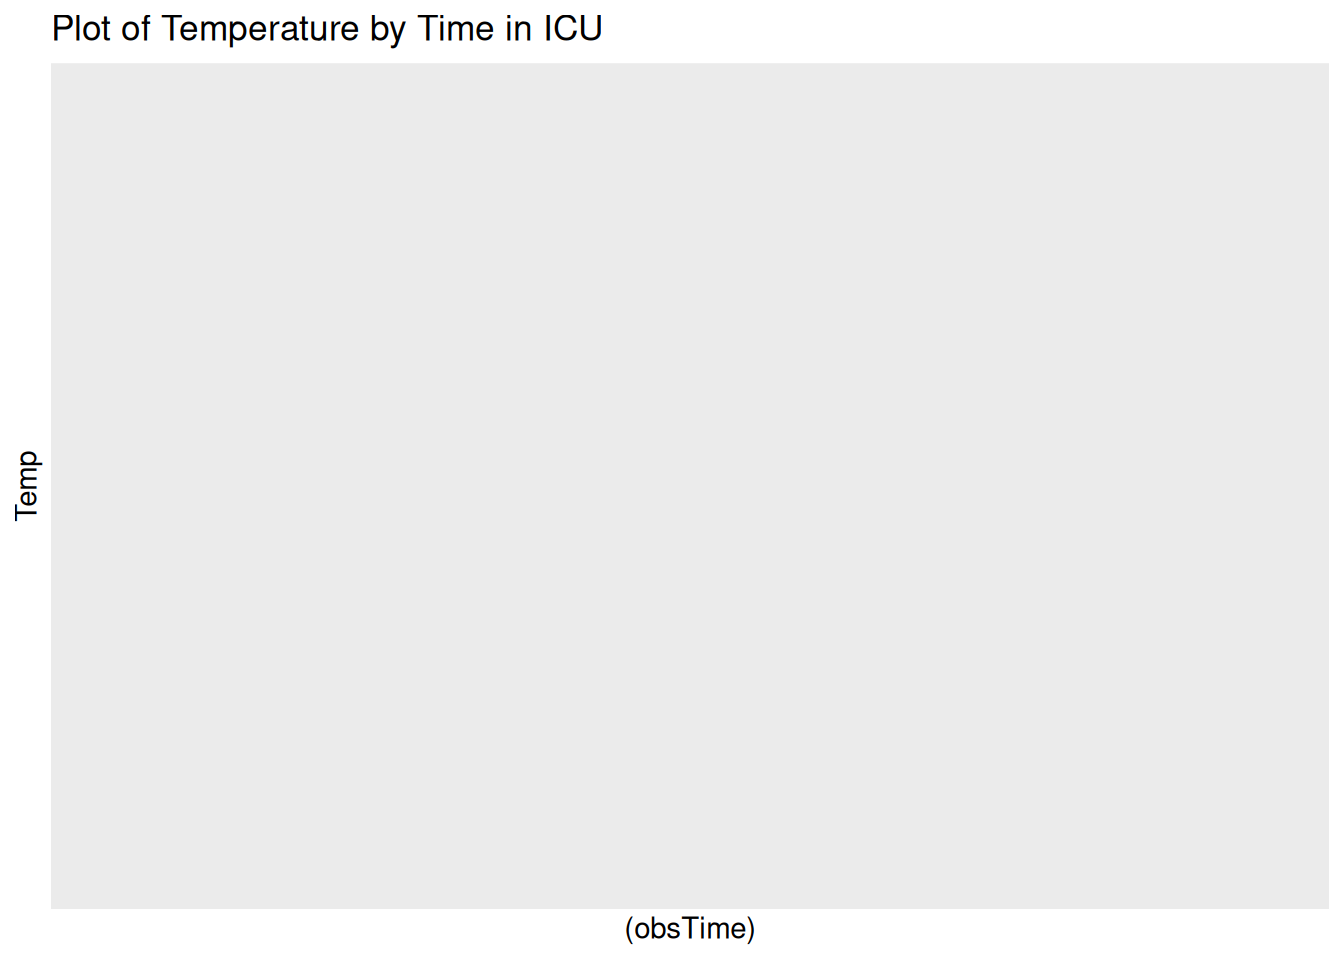
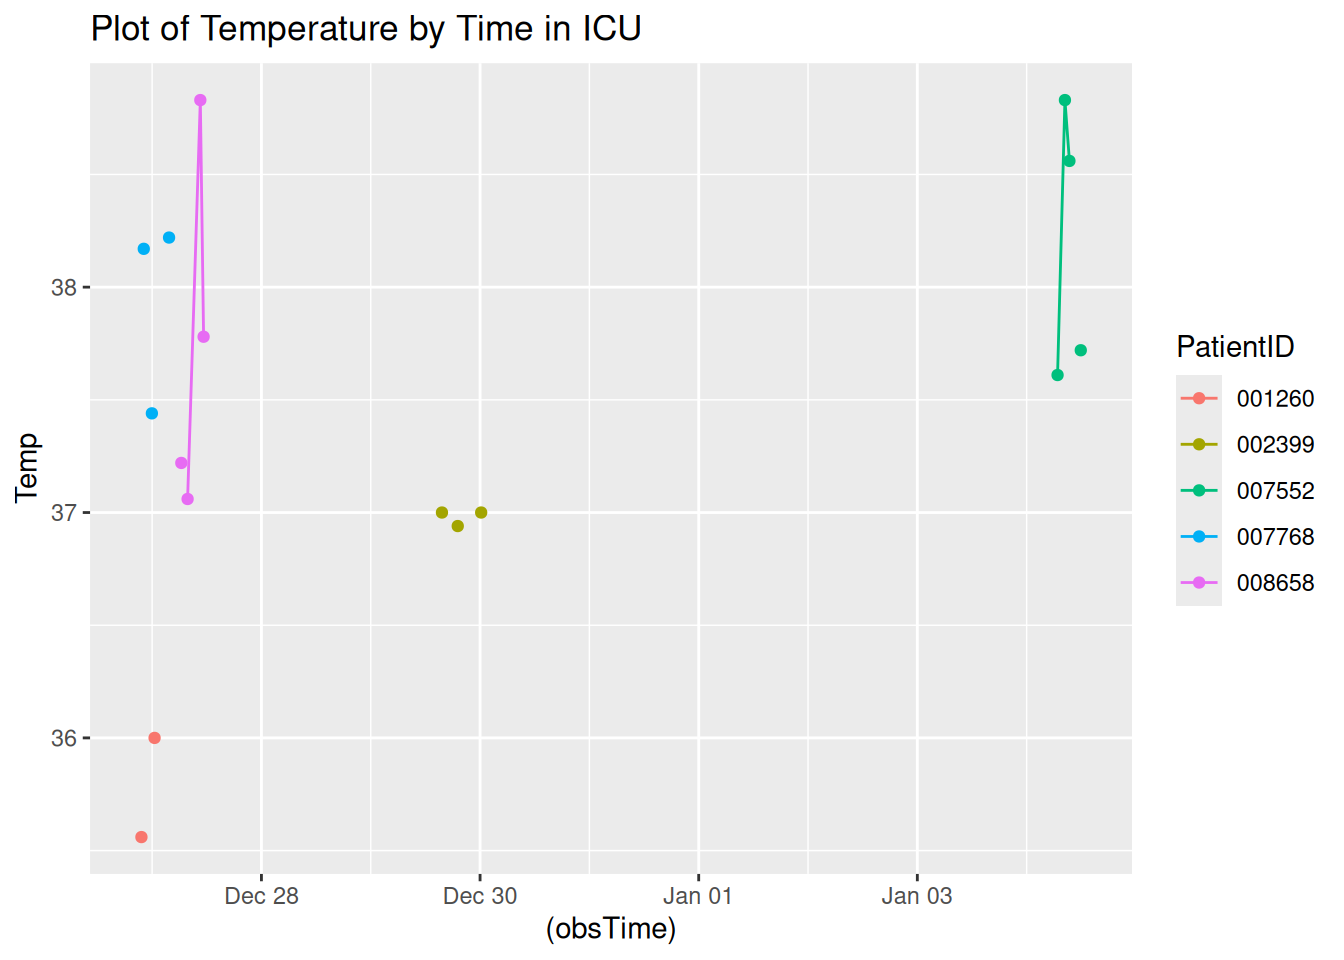
Updated report

diff --git a/A7.html b/A7.html
@@ -119,7 +119,7 @@ pre > code.sourceCode > span > a:first-child::before { text-decoration: underlin
 </div>
 <div class="code-copy-outer-scaffold"><div class="sourceCode cell-code" id="cb4"><pre class="sourceCode r code-with-copy"><code class="sourceCode r"><span id="cb4-1"><a href="#cb4-1" aria-hidden="true" tabindex="-1"></a><span class="fu">toc</span>()</span></code></pre></div><button title="Copy to Clipboard" class="code-copy-button"><i class="bi"></i></button></div>
 <div class="cell-output cell-output-stdout">
-<pre><code>14.097 sec elapsed</code></pre>
+<pre><code>11.021 sec elapsed</code></pre>
 </div>
 <div class="code-copy-outer-scaffold"><div class="sourceCode cell-code" id="cb6"><pre class="sourceCode r code-with-copy"><code class="sourceCode r"><span id="cb6-1"><a href="#cb6-1" aria-hidden="true" tabindex="-1"></a><span class="fu">tic</span>()</span>
 <span id="cb6-2"><a href="#cb6-2" aria-hidden="true" tabindex="-1"></a>test1<span class="ot">=</span><span class="fu">makeSepsisDataset</span>(<span class="at">n=</span><span class="dv">50</span>,<span class="at">read_fn =</span> <span class="st">"read_delim"</span>)</span>
@@ -129,7 +129,7 @@ pre > code.sourceCode > span > a:first-child::before { text-decoration: underlin
 </div>
 <div class="code-copy-outer-scaffold"><div class="sourceCode cell-code" id="cb8"><pre class="sourceCode r code-with-copy"><code class="sourceCode r"><span id="cb8-1"><a href="#cb8-1" aria-hidden="true" tabindex="-1"></a><span class="fu">toc</span>()</span></code></pre></div><button title="Copy to Clipboard" class="code-copy-button"><i class="bi"></i></button></div>
 <div class="cell-output cell-output-stdout">
-<pre><code>12.281 sec elapsed</code></pre>
+<pre><code>9.58 sec elapsed</code></pre>
 </div>
 <div class="code-copy-outer-scaffold"><div class="sourceCode cell-code" id="cb10"><pre class="sourceCode r code-with-copy"><code class="sourceCode r"><span id="cb10-1"><a href="#cb10-1" aria-hidden="true" tabindex="-1"></a><span class="co"># n=100</span></span>
 <span id="cb10-2"><a href="#cb10-2" aria-hidden="true" tabindex="-1"></a><span class="fu">tic</span>()</span>
@@ -140,7 +140,7 @@ pre > code.sourceCode > span > a:first-child::before { text-decoration: underlin
 </div>
 <div class="code-copy-outer-scaffold"><div class="sourceCode cell-code" id="cb12"><pre class="sourceCode r code-with-copy"><code class="sourceCode r"><span id="cb12-1"><a href="#cb12-1" aria-hidden="true" tabindex="-1"></a><span class="fu">toc</span>()</span></code></pre></div><button title="Copy to Clipboard" class="code-copy-button"><i class="bi"></i></button></div>
 <div class="cell-output cell-output-stdout">
-<pre><code>20.407 sec elapsed</code></pre>
+<pre><code>15.475 sec elapsed</code></pre>
 </div>
 <div class="code-copy-outer-scaffold"><div class="sourceCode cell-code" id="cb14"><pre class="sourceCode r code-with-copy"><code class="sourceCode r"><span id="cb14-1"><a href="#cb14-1" aria-hidden="true" tabindex="-1"></a><span class="fu">tic</span>()</span>
 <span id="cb14-2"><a href="#cb14-2" aria-hidden="true" tabindex="-1"></a>test1<span class="ot">=</span><span class="fu">makeSepsisDataset</span>(<span class="at">n=</span><span class="dv">100</span>,<span class="at">read_fn =</span> <span class="st">"read_delim"</span>)</span>
@@ -150,7 +150,7 @@ pre > code.sourceCode > span > a:first-child::before { text-decoration: underlin
 </div>
 <div class="code-copy-outer-scaffold"><div class="sourceCode cell-code" id="cb16"><pre class="sourceCode r code-with-copy"><code class="sourceCode r"><span id="cb16-1"><a href="#cb16-1" aria-hidden="true" tabindex="-1"></a><span class="fu">toc</span>()</span></code></pre></div><button title="Copy to Clipboard" class="code-copy-button"><i class="bi"></i></button></div>
 <div class="cell-output cell-output-stdout">
-<pre><code>22.769 sec elapsed</code></pre>
+<pre><code>18.601 sec elapsed</code></pre>
 </div>
 <div class="code-copy-outer-scaffold"><div class="sourceCode cell-code" id="cb18"><pre class="sourceCode r code-with-copy"><code class="sourceCode r"><span id="cb18-1"><a href="#cb18-1" aria-hidden="true" tabindex="-1"></a><span class="co"># n=500</span></span>
 <span id="cb18-2"><a href="#cb18-2" aria-hidden="true" tabindex="-1"></a><span class="fu">tic</span>()</span>
@@ -161,7 +161,7 @@ pre > code.sourceCode > span > a:first-child::before { text-decoration: underlin
 </div>
 <div class="code-copy-outer-scaffold"><div class="sourceCode cell-code" id="cb20"><pre class="sourceCode r code-with-copy"><code class="sourceCode r"><span id="cb20-1"><a href="#cb20-1" aria-hidden="true" tabindex="-1"></a><span class="fu">toc</span>()</span></code></pre></div><button title="Copy to Clipboard" class="code-copy-button"><i class="bi"></i></button></div>
 <div class="cell-output cell-output-stdout">
-<pre><code>100.803 sec elapsed</code></pre>
+<pre><code>80.074 sec elapsed</code></pre>
 </div>
 <div class="code-copy-outer-scaffold"><div class="sourceCode cell-code" id="cb22"><pre class="sourceCode r code-with-copy"><code class="sourceCode r"><span id="cb22-1"><a href="#cb22-1" aria-hidden="true" tabindex="-1"></a><span class="fu">tic</span>()</span>
 <span id="cb22-2"><a href="#cb22-2" aria-hidden="true" tabindex="-1"></a>test1<span class="ot">=</span><span class="fu">makeSepsisDataset</span>(<span class="at">n=</span><span class="dv">500</span>,<span class="at">read_fn =</span> <span class="st">"read_delim"</span>)</span>
@@ -171,7 +171,7 @@ pre > code.sourceCode > span > a:first-child::before { text-decoration: underlin
 </div>
 <div class="code-copy-outer-scaffold"><div class="sourceCode cell-code" id="cb24"><pre class="sourceCode r code-with-copy"><code class="sourceCode r"><span id="cb24-1"><a href="#cb24-1" aria-hidden="true" tabindex="-1"></a><span class="fu">toc</span>()</span></code></pre></div><button title="Copy to Clipboard" class="code-copy-button"><i class="bi"></i></button></div>
 <div class="cell-output cell-output-stdout">
-<pre><code>118.18 sec elapsed</code></pre>
+<pre><code>93.145 sec elapsed</code></pre>
 </div>
 </div>
 <p><strong>Task 3</strong></p>
@@ -197,7 +197,7 @@ pre > code.sourceCode > span > a:first-child::before { text-decoration: underlin
 <span id="cb28-4"><a href="#cb28-4" aria-hidden="true" tabindex="-1"></a></span>
 <span id="cb28-5"><a href="#cb28-5" aria-hidden="true" tabindex="-1"></a><span class="fu">Sys.time</span>()</span></code></pre></div><button title="Copy to Clipboard" class="code-copy-button"><i class="bi"></i></button></div>
 <div class="cell-output cell-output-stdout">
-<pre><code>[1] "2025-12-26 11:27:54 UTC"</code></pre>
+<pre><code>[1] "2025-12-26 12:55:22 UTC"</code></pre>
 </div>
 <div class="code-copy-outer-scaffold"><div class="sourceCode cell-code" id="cb30"><pre class="sourceCode r code-with-copy"><code class="sourceCode r"><span id="cb30-1"><a href="#cb30-1" aria-hidden="true" tabindex="-1"></a>dfnew <span class="ot">&lt;-</span> df <span class="sc">%&gt;%</span></span>
 <span id="cb30-2"><a href="#cb30-2" aria-hidden="true" tabindex="-1"></a>  <span class="fu">subset</span>(SepsisLabel<span class="sc">==</span><span class="dv">1</span>)</span>
@@ -212,7 +212,66 @@ pre > code.sourceCode > span > a:first-child::before { text-decoration: underlin
 <span id="cb30-11"><a href="#cb30-11" aria-hidden="true" tabindex="-1"></a></span>
 <span id="cb30-12"><a href="#cb30-12" aria-hidden="true" tabindex="-1"></a><span class="fu">kable</span>(res)</span></code></pre></div><button title="Copy to Clipboard" class="code-copy-button"><i class="bi"></i></button></div>
 <div class="cell-output-display">
-
+<table class="caption-top table table-sm table-striped small">
+<thead>
+<tr class="header">
+<th style="text-align: left;">PatientID</th>
+<th style="text-align: right;">ICULOS</th>
+<th style="text-align: right;">HR</th>
+<th style="text-align: right;">Temp</th>
+<th style="text-align: right;">Resp</th>
+<th style="text-align: right;">SepsisLabel</th>
+<th style="text-align: left;">obsTime</th>
+</tr>
+</thead>
+<tbody>
+<tr class="odd">
+<td style="text-align: left;">001260</td>
+<td style="text-align: right;">15</td>
+<td style="text-align: right;">99</td>
+<td style="text-align: right;">NA</td>
+<td style="text-align: right;">17</td>
+<td style="text-align: right;">1</td>
+<td style="text-align: left;">2025-12-27 03:39:19</td>
+</tr>
+<tr class="even">
+<td style="text-align: left;">002399</td>
+<td style="text-align: right;">88</td>
+<td style="text-align: right;">80</td>
+<td style="text-align: right;">NA</td>
+<td style="text-align: right;">23</td>
+<td style="text-align: right;">1</td>
+<td style="text-align: left;">2025-12-30 01:31:17</td>
+</tr>
+<tr class="odd">
+<td style="text-align: left;">007552</td>
+<td style="text-align: right;">216</td>
+<td style="text-align: right;">115</td>
+<td style="text-align: right;">NA</td>
+<td style="text-align: right;">22</td>
+<td style="text-align: right;">1</td>
+<td style="text-align: left;">2026-01-04 12:46:58</td>
+</tr>
+<tr class="even">
+<td style="text-align: left;">007768</td>
+<td style="text-align: right;">17</td>
+<td style="text-align: right;">122</td>
+<td style="text-align: right;">NA</td>
+<td style="text-align: right;">22</td>
+<td style="text-align: right;">1</td>
+<td style="text-align: left;">2025-12-27 05:26:03</td>
+</tr>
+<tr class="odd">
+<td style="text-align: left;">008658</td>
+<td style="text-align: right;">25</td>
+<td style="text-align: right;">105</td>
+<td style="text-align: right;">NA</td>
+<td style="text-align: right;">31</td>
+<td style="text-align: right;">1</td>
+<td style="text-align: left;">2025-12-27 13:16:13</td>
+</tr>
+</tbody>
+</table>
 </div>
 </div>
 <div class="cell">
